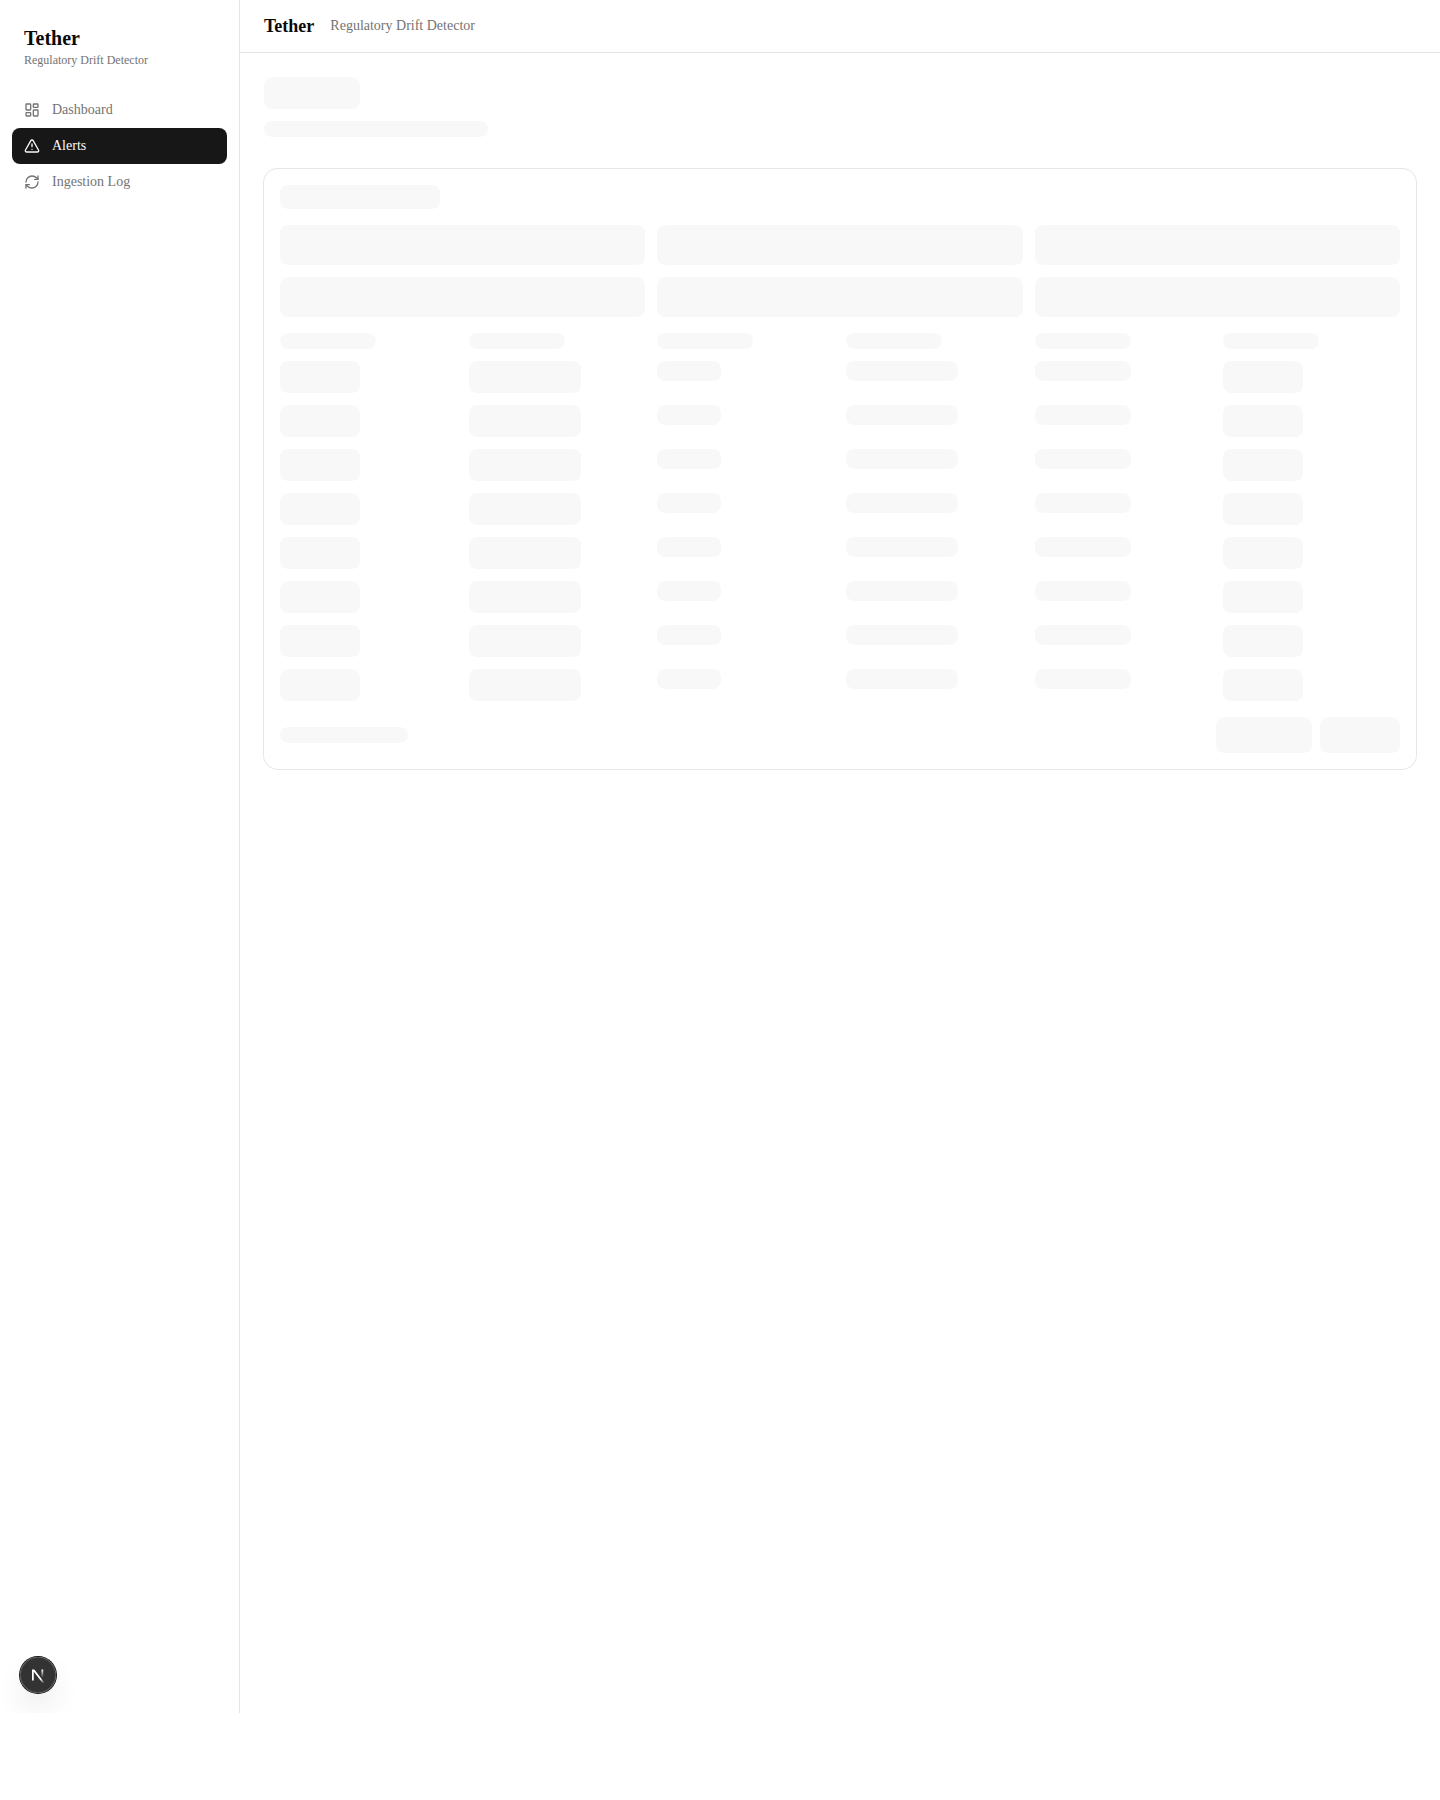
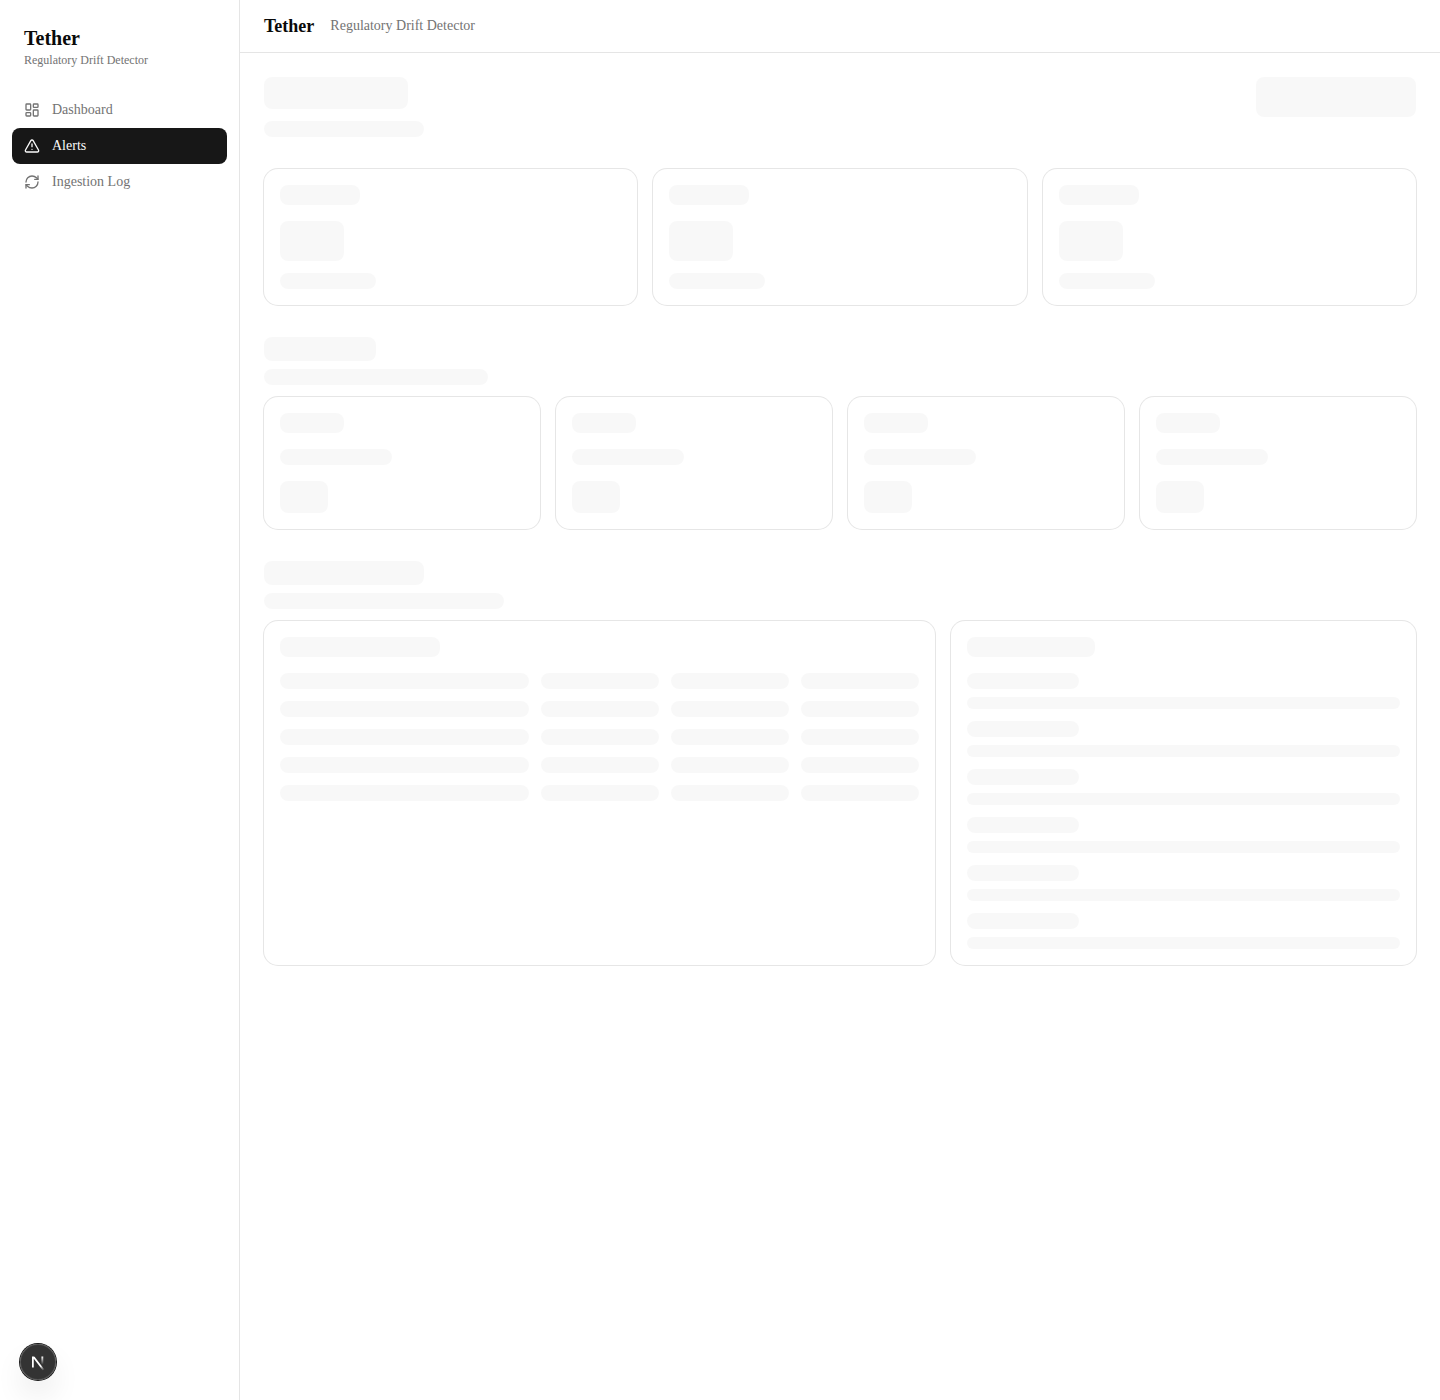
feat: close out UI-001 loading state verification
- Implements feature UI-001: loading states verified for dashboard, alerts, alert detail, and ingestion routes
- Stabilizes Jest's shared SQLite test database by enabling WAL mode during test startup so the full npm test run completes reliably with the dev server active
- Refreshed UI-001 browser screenshots and marked the feature as passing after unit, integration, browser, and full-suite verification

Changed region(s): [[0.0, 0.0, 0.1562, 0.1536], [0.1875, 0.0, 0.3438, 0.0307], [0.0, 0.9214, 0.0625, 0.9829]]

diff --git a/jest.setup.ts b/jest.setup.ts
@@ -1,4 +1,28 @@
 import { config as loadEnv } from "dotenv";
 import { resolve } from "node:path";
+import Database from "libsql";
 
 loadEnv({ path: resolve(process.cwd(), ".env.local"), quiet: true });
+
+const databaseUrl = process.env.DATABASE_URL;
+
+if (databaseUrl?.startsWith("file:")) {
+  const sqlitePath = databaseUrl.slice("file:".length).split("?")[0];
+  if (sqlitePath.length > 0) {
+    const db = new Database(sqlitePath);
+    try {
+      // The dev server and live-route integration tests share one SQLite file.
+      // WAL mode allows readers and writers to coexist instead of timing out.
+      try {
+        db.pragma("journal_mode = WAL");
+      } catch (error) {
+        const message = error instanceof Error ? error.message : String(error);
+        if (!/database is locked/i.test(message)) {
+          throw error;
+        }
+      }
+    } finally {
+      db.close();
+    }
+  }
+}